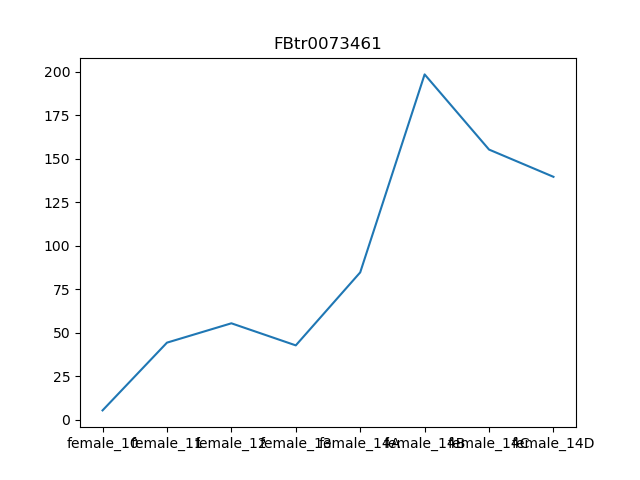
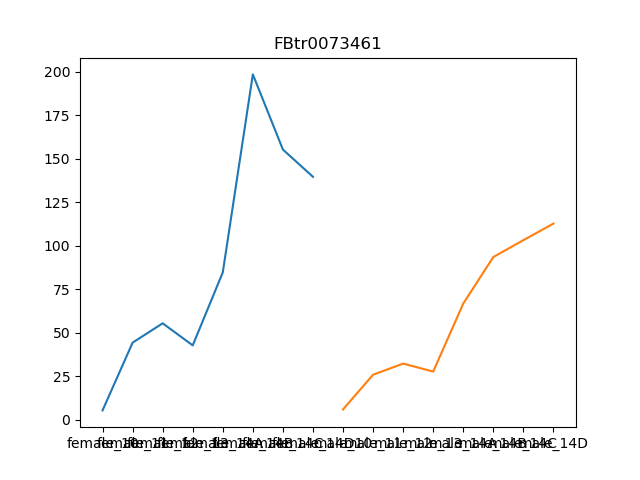
added male data

diff --git a/day2-homework/plot-sisA.py b/day2-homework/plot-sisA.py
@@ -25,17 +25,24 @@ cols = []
 for i in range(len(samples)):
     if "female" in samples[i]:
         cols.append(i)
+#male columns
+cols_m = []
+for i in range(len(samples)):
+    if "male" in samples[i] and "female" not in samples[i]:
+        cols_m.append(i)
 
 # Subset data of interest
 expression = data[row, cols]
-
+expression_m = data[row, cols_m]
 # Prepare data
 x = samples[cols]
 y = expression
-
+x_m = samples[cols_m]
+y_m = expression_m
 # Plot data
 fig, ax = plt.subplots()
 ax.set_title( "FBtr0073461" )
 ax.plot( x, y )
+ax.plot(x_m, y_m )
 fig.savefig( "FBtr0073461.png" )
 plt.close( fig )
